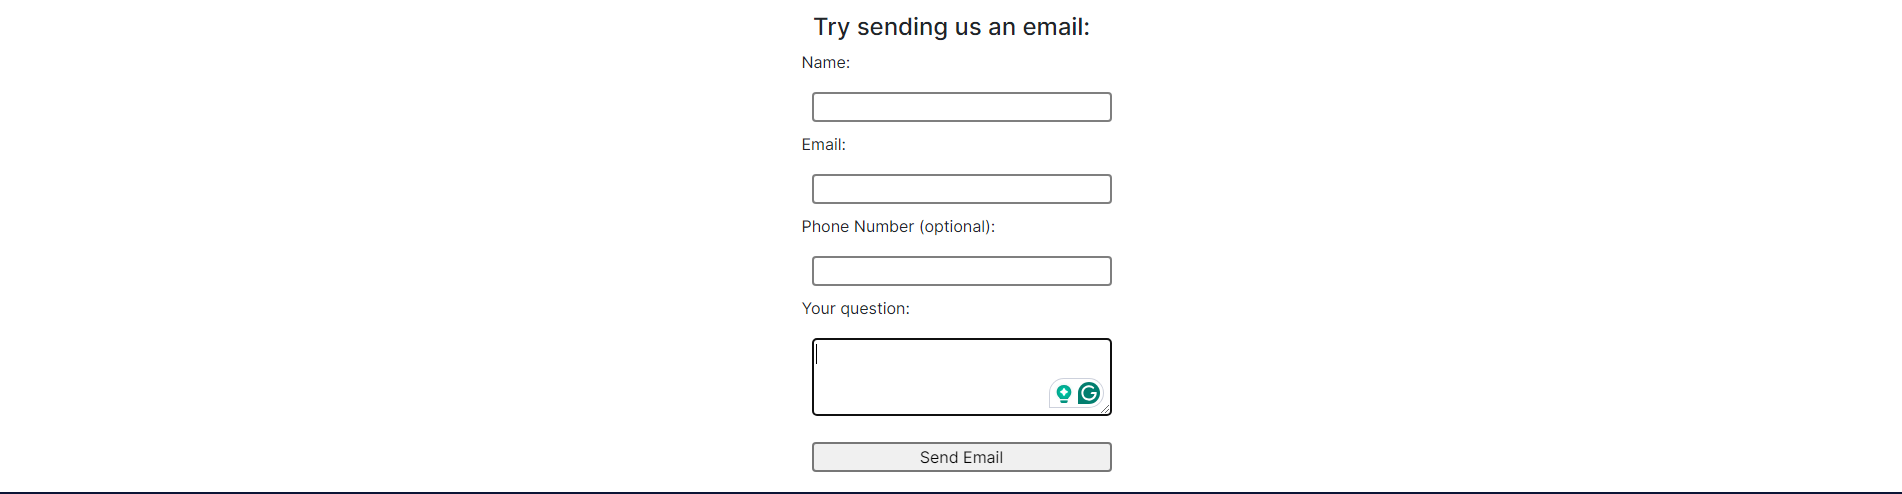
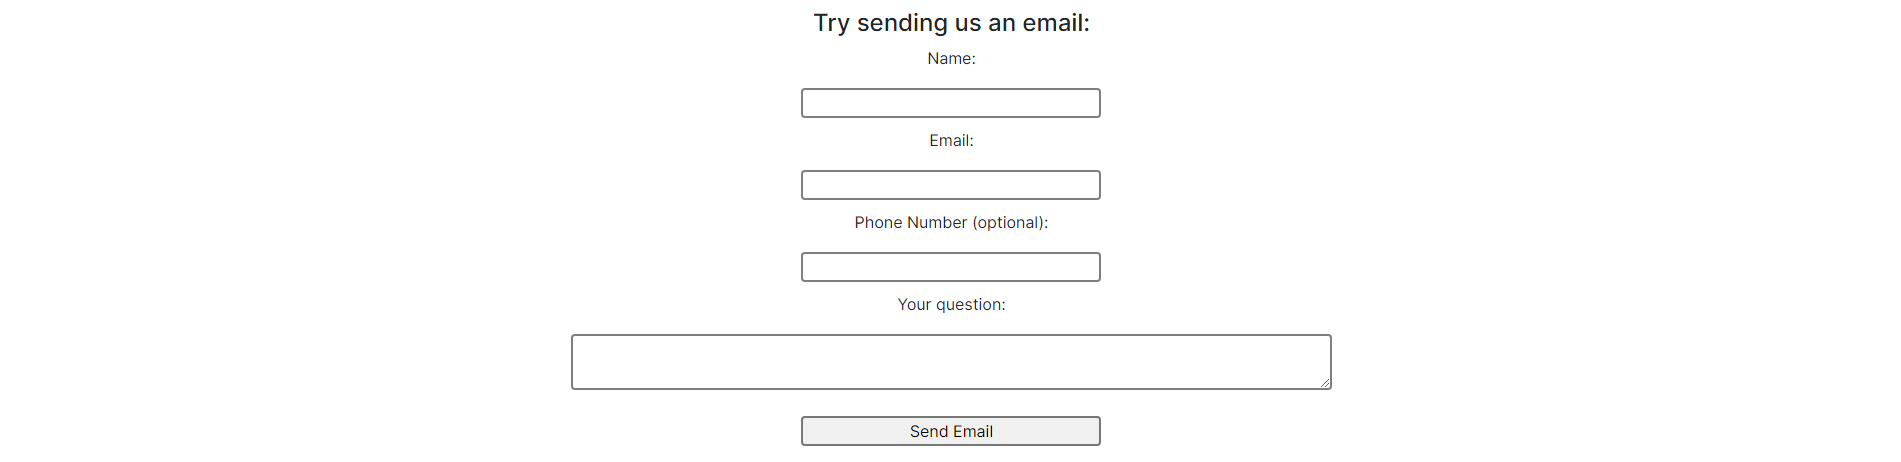
Contact form: Tweaking the width so it appears better on wide/large screens.

diff --git a/contact.html b/contact.html
@@ -84,7 +84,7 @@
                             Kent CT16 1EE
                         </p>
                     </div>
-                    <div class="col-6">
+                    <div class="col-6 timetable">
                         <table>
                             <tr>
                                 <th>Day</th>
@@ -140,15 +140,15 @@
                     <form action="https://formdump.codeinstitute.net/" method="post" class="email-form">
                         <label for="name">Name:</label>
                         <br>
-                        <input type="text" required id="name" name="user-name">
+                        <input type="text" required id="name" name="user-name" class="input-bar">
                         <br>
                         <label for="email">Email:</label>
                         <br>
-                        <input type="email" required id="email" name="user-email">
+                        <input type="email" required id="email" name="user-email" class="input-bar">
                         <br>
                         <label for="phone-number">Phone Number (optional):</label>
                         <br>
-                        <input type="number" id="phone-number" name="user-phone-number">
+                        <input type="number" id="phone-number" name="user-phone-number" class="input-bar">
                         <br>
                         <label for="question">Your question:</label>
                         <br>

diff --git a/assets/css/style.css b/assets/css/style.css
@@ -228,6 +228,16 @@ a.carousel-control-prev{
     margin: auto 0;
 }
 
+.timetable th, td{
+    padding: 5px;
+    border-bottom: 1px rgba(125, 125, 125, 1) solid;
+}
+
+table{
+    border: 2px rgba(125, 125, 125, 1) solid;
+    margin: 5px;
+}
+
 .contact-phone{
     background-color: #0c1536;
     color: #fafafa;
@@ -248,17 +258,27 @@ a.carousel-control-prev{
 /*------------------------------------------------------------ Form*/
 
 .form-section{
-    width: 300px;
+    width: 80%;
     margin: 0 auto;
+    text-align: center;
+}
+
+.form-section .input-bar{
+    width: 300px;
 }
 
 .form-section input, textarea{
-    width: 100%;
+    width: 50%;
+    min-width: 300px;
     margin: 10px;
     border: solid 2px rgba(0, 0, 0, 0.5);
     border-radius: 4px;
 }
 
+
+.form-section .send-button{
+    width: 200px;
+}
 /*------------------------------------------------------------ Review*/
 
 .qoute{

diff --git a/README.md b/README.md
@@ -3,6 +3,7 @@
 Pharos Computers is a website based on a real shop in my local town, with the goal to spread information about its services and direct customers towards the shop. It is designed to be readable on all types of media, with the desgin subtly changing to match the different widths of different devices. The content will be fairly simple and describe problems in broad terms. Not only is this to keep text-bloat as small as possible to increase readability, but if a customer is looking for technical help for their computer, then chances are technical terms will only confuse and deter them.
 
 The owner of the shop has given me permission to make a website based on his shop.
+
 ![Shop owner giving approval](readme-images/Approval.jpg)
 
 <h2 align="center">User Experience/UX</h2>
@@ -247,7 +248,7 @@ Most people using the website will not be tech literate, and seeing how they're 
 
 ![Form computer](readme-images/end-result-images/Form-lg.PNG)
 
-<h3>Future development</h3>
+<h3>Future development/Future features</h3>
 
 Plans for future features/changes I would add if I were to have the time to do so in the future.
 
@@ -262,18 +263,6 @@ Index hero:
 Services carousel:
 
 -Have each carousel caption have a link/button that opens up its corresponding info in the services extended section
-
-Contact address:
-
--Add padding to remove the slight crowding of the words
-
--Add a border to help define its shape
-
-Contact form:
-
--On large screen extend the width of the form
-
-
 
 <h2>Technology used</h2>
 
